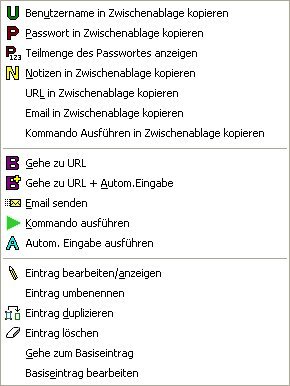
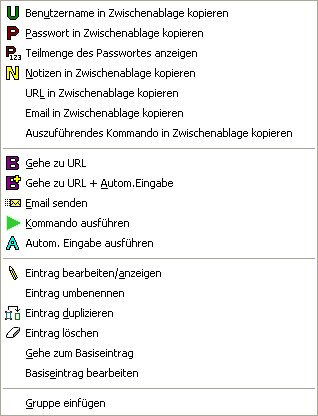
sync, undo/redo and gen-pw functionality in help (german) menu toolbar with undo/redo-sync buttons (german + english)

Changed region(s): [[0.0, 0.0, 0.9931, 0.9948]]

diff --git a/pwsafe/pwsafe/help/pwsafeDE/html/edit_menu.html b/pwsafe/pwsafe/help/pwsafeDE/html/edit_menu.html
@@ -49,6 +49,10 @@
 <p>Der ausgew&auml;hlte Eintrag wird dupliziert. Dies ist deaktiviert, wenn eine Datenbank in NUR-Lesen Modus ge&ouml;ffnet ist.</p>
 <h3>Gruppe einf&uuml;gen</h3>
 <p>Es wird eine neue Passwortgruppe eingerichtet (z.B. Bank Passw&ouml;rter). Dies ist deaktiviert, wenn eine Datenbank in NUR-Lesen Modus ge&ouml;ffnet ist.</p>
+<h3>R&uuml;ckg&auml;ngig</h3>
+<p>Die zuletzt ausgef&uuml;hrte Aktion wird r&uuml;ckg&auml;ngig gemacht.</p>
+<h3>Wiederholen</h3>
+<p>Die zuletzt r&uuml;ckg&auml;ngig gemachte Aktion wird wiederhergestellt.</p>
 <h3>Zwischenablage l&ouml;schen</h3>
 <p>L&ouml;scht die Zwischenablage. Dies l&ouml;scht in der Zwischenablage nur die Sachen, die von <b>Password Safe</b> (Passwort, Benutzername, Notizen, usw.) stammen. Wenn der momentane Inhalt in der Zwischenablage nicht von <b>Password Safe</b> stammt, dann passiert damit nichts.</p>
 <h3>Passwort in Zwischenablage kopieren</h3>
@@ -90,7 +94,7 @@ Wenn kein Eintrag ausgew&auml;hlt ist, oder es ist keine URL mit diesem Eintrag 
 <p>Dieser Punkt kommt nur dann vor, wenn Sie ein verkn&uuml;pfter Eintrag oder ein Alias-Eintrag anklicken. Nach einem Klick auf <b>Basiseintrag bearbeiten</b> kann der Basiseintrag, der zu diesem verkn&uuml;pften oder  Alias-Eintrag geh&ouml;rt, bearbeitet werden.</p>
 		</div>
 <h2>Rechtsklick Bearbeiten</h2>
-<p>Alle Punkte im Men&uuml; <b>Bearbeiten</b> k&ouml;nnen auch mit einem rechten Mausklick auf den entsprechenden Eintrag, Alias bzw. Gruppe erreicht werden.</p>
+<p>Fast alle Punkte im Men&uuml; <b>Bearbeiten</b> k&ouml;nnen auch mit einem rechten Mausklick auf den entsprechenden Eintrag, Alias bzw. Gruppe erreicht werden.</p>
 <table class="MsoNormalTable" style="border: medium none ; border-collapse: collapse;" border="0" cellpadding="0" cellspacing="0">
   <tbody>
     <tr>
@@ -109,7 +113,7 @@ Wenn kein Eintrag ausgew&auml;hlt ist, oder es ist keine URL mit diesem Eintrag 
     </tr>
   </tbody>
 </table>
-<p>Alle Men&uuml;punkte sind im Kapitel <b>Men&uuml; Bearbeiten</b> oben abgehandelt worden.</p>
+<p>All diese Men&uuml;punkte sind im Kapitel <b>Men&uuml; Bearbeiten</b> oben abgehandelt worden.</p>
 <div class="instr">
 		</div>
 		<!-- Added some white space at the bottom for natural scrolling -->

diff --git a/pwsafe/pwsafe/help/pwsafeDE/html/file_menu.html b/pwsafe/pwsafe/help/pwsafeDE/html/file_menu.html
@@ -46,9 +46,13 @@
 <h3>Zusammenf&uuml;hren</h3>
 <p>F&uuml;hrt eine <b>Password Safe</b> Datenbank oder ein Sicherungskopie (.bak) zusammen mit der aktuellen Datenbank. Dies ist im NUR Lesen Modus gesperrt.</p>
 <h3>Vergleichen</h3>
-<p>Vergleicht die aktuell ge&ouml;ffnete Datenbank mit einer anderen.</p>
+<p>Vergleicht die aktuell ge&ouml;ffnete Datenbank mit einer anderen <b>Password Safe</b> Datenbank.</p>
+<h3>Synchronisieren</h3>
+<p>Synchronisiert die aktuell ge&ouml;ffnete Datenbank mit einer anderen <b>Password Safe</b> Datenbank. Dies ist im NUR Lesen Modus gesperrt.</p>
+<p>Der Unterschied zwischen Zusammenf&uuml;hren und Synchronieren besteht in der Tatsache das beim Zusammenf&uuml;hren s&auml;mtliche Elemente aus der synchonisierenden <b>Password Safe</b> 
+Datenbank in die aktuell ge&ouml;ffneten Datenbank &uuml;bernommen werden, beim Synchronisieren werden nur die in der aktuell ge&ouml;ffneten Datenbank vorhandenen Elemente abgearbeitet.</p>
 <hr>
-<small><b>Hinweis:</b> Die beiden Punkte <i>Zusammenf&uuml;hren</i> und <i>Vergleichen</i> k&ouml;nnen einige Zeit in Anspruch nehmen, vor allem bei gro&szlig;e Datenbanken.</small>
+<small><b>Hinweis:</b> Die Punkte <i>Zusammenf&uuml;hren</i>, <i>Vergleichen</i> und <i>Synchronisieren</i> k&ouml;nnen einige Zeit in Anspruch nehmen, vor allem bei gro&szlig;e Datenbanken.</small>
 <hr>
 <h3>Eigenschaften</h3>
 Zeigt Informationen zur aktuell ge&ouml;ffneten <b>Password Safe</b> Datenbank an, wie da sind: Format, Version, Anzahl Gruppen, Anzahl Eintr&auml;ge, wer was zuletzt gespeichert hat.

diff --git a/pwsafe/pwsafe/help/pwsafeDE/html/preferences.html b/pwsafe/pwsafe/help/pwsafeDE/html/preferences.html
@@ -11,7 +11,7 @@
 <body>
 <object id="popup" type="application/x-oleobject" classid="clsid:adb880a6-d8ff-11cf-9377-00aa003b7a11"> </object>
 <!-- Popup Source File -->
-<h2>Password Safe Voreinstellungen<o:p></h2>
+<h2>Password Safe Voreinstellungen</h2>
 <hr>Wie manche andere Anwendungen auch hat <b>Password Safe</b> die M&ouml;glichkeit sein Verhalten und Aussehen einzustellen, um sich so gut wie m&ouml;glich auf Ihre N&ouml;te und W&uuml;nsche einzustellen. Viele Anwendungen speichern solche Voreinstellungen in die Windows Registry ab, eine Art von Gewohnheit und Bequemlichkeit. Fr&uuml;here Versionen von <b>Password Safe</b> haben die Registry auch eingesetzt, dies brachte aber folgende Probleme mit sich:<br>
 1. Einige der konfigurierbaren Voreinstellungen sind sicherheitsrelevant, und das Abspeichern in einer offenen Ablage wie die Windows Registry k&ouml;nnte einem Angreifer beim Zugang zur Datenbank helfen (z.B. wenn der Angreifer nach Ablauf der Pause auf die Datenbank zugreift, wo der Anwender selber weiterhin von einer Datenbanksperrung ausgeht).<br>
 2. Einige Leute betreiben <b>Password Safe</b> von einer disk-on-key. Oder Sie betreiben eine Datenbank gemeinsam von mehreren Maschinen aus. In diesem Falle w&auml;re es ung&uuml;nstig die Registry zu verwenden.<br>

diff --git a/pwsafe/pwsafe/help/pwsafeDE/html/menu_toolbar.html b/pwsafe/pwsafe/help/pwsafeDE/html/menu_toolbar.html
@@ -236,6 +236,24 @@ Zur Einfachheit beinhaltet dieses Element einer Kurzbeschreibung des jeweiligen 
       <td align="center"></td>
       <td><i>Sendet eine Email.</i></td>
     </tr>
+    <tr>
+      <td align="center"><img src="images/toolbar/classic/synchronize.jpg"></td>
+      <td align="center"><img src="images/toolbar/new/synchronize.jpg"></td>
+      <td align="center"></td>
+      <td><i>Synchronisiert 2 Datenbanken.</i></td>
+    </tr>
+    <tr>
+      <td align="center"><img src="images/toolbar/classic/undo.jpg"></td>
+      <td align="center"><img src="images/toolbar/new/undo.jpg"></td>
+      <td align="center"></td>
+      <td><i>Macht die letzte Aktion r&uuml;ckg&auml;ngig.</i></td>
+    </tr>
+    <tr>
+      <td align="center"><img src="images/toolbar/classic/redo.jpg"></td>
+      <td align="center"><img src="images/toolbar/new/redo.jpg"></td>
+      <td align="center"></td>
+      <td><i>Stellt die zuletzt r&uuml;ckg&auml;ngig gemachte Aktion wieder her.</i></td>
+    </tr>
   </tbody>
 </table>
 </div>

diff --git a/pwsafe/pwsafe/help/default/html/menu_toolbar.html b/pwsafe/pwsafe/help/default/html/menu_toolbar.html
@@ -240,6 +240,24 @@ Toolbar</b></li>
       <td align="center"></td>
       <td><i>Send an email.</i></td>
     </tr>
+    <tr>
+      <td align="center"><img src="images/toolbar/classic/synchronize.jpg"></td>
+      <td align="center"><img src="images/toolbar/new/synchronize.jpg"></td>
+      <td align="center"></td>
+      <td><i>Synchronizes the current safe with another.</i></td>
+    </tr>
+    <tr>
+      <td align="center"><img src="images/toolbar/classic/undo.jpg"></td>
+      <td align="center"><img src="images/toolbar/new/undo.jpg"></td>
+      <td align="center"></td>
+      <td><i>'undo' the last action.</i></td>
+    </tr>
+    <tr>
+      <td align="center"><img src="images/toolbar/classic/redo.jpg"></td>
+      <td align="center"><img src="images/toolbar/new/redo.jpg"></td>
+      <td align="center"></td>
+      <td><i>'Redo' the last 'undone' action.</i></td>
+    </tr>
   </tbody>
 </table>
 </div>
